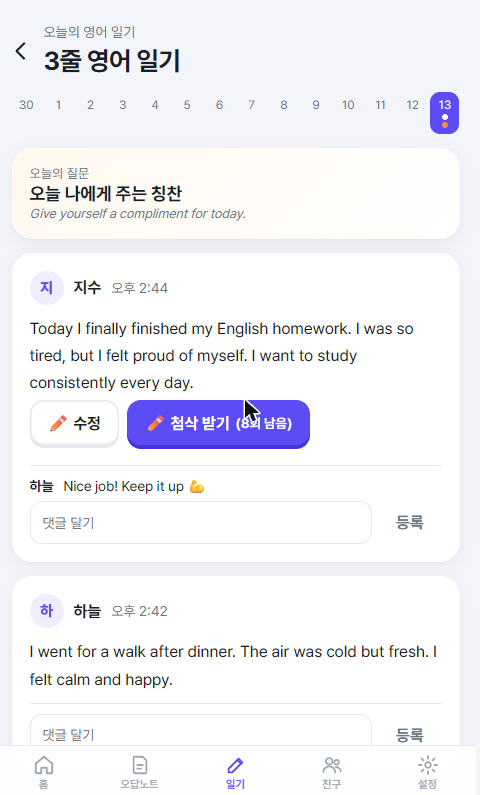
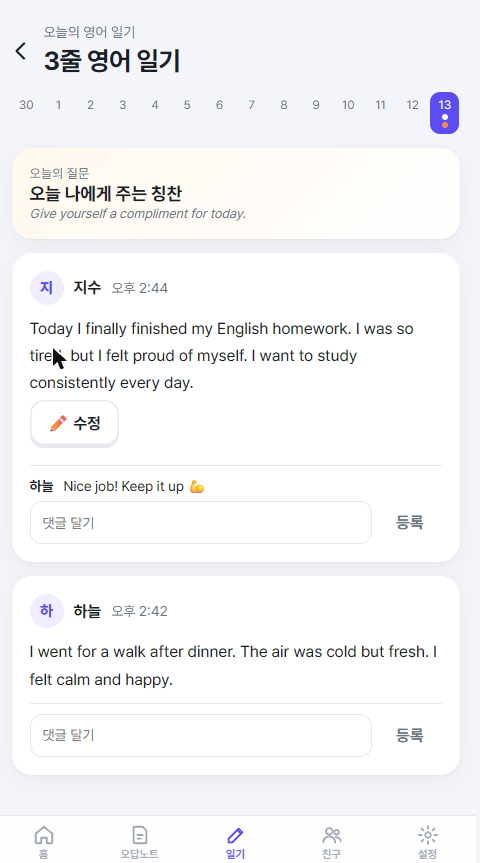
일기: 완료된 글에는 '수정'만, 첨삭 받기는 입력창이 열렸을 때만

diff --git a/public/app.js b/public/app.js
@@ -880,7 +880,7 @@ async function diary(date) {
     if (mode === 'post') {
       box.innerHTML = `<p class="entry-text">${esc(text)}</p>
         <div class="row between"><span></span><span class="small" id="msg" role="status"></span></div>
-        <div class="actions"><button class="btn" id="edit">✏ 수정</button>${checkBtn}</div>`;
+        <div class="actions"><button class="btn" id="edit">✏ 수정</button></div>`; // 완료된 글에는 '수정'만. 첨삭 받기는 입력창이 열렸을 때만
       $('#edit').onclick = () => render('edit');
     } else {
       const v = draft ?? text;
@@ -894,8 +894,8 @@ async function diary(date) {
         draft = null;
         render('post');
       });
+      $('#check').onclick = check;
     }
-    $('#check').onclick = check;
   };
   const showReview = r => {
     $('#review').innerHTML = r ? reviewView(text, r) : '';
